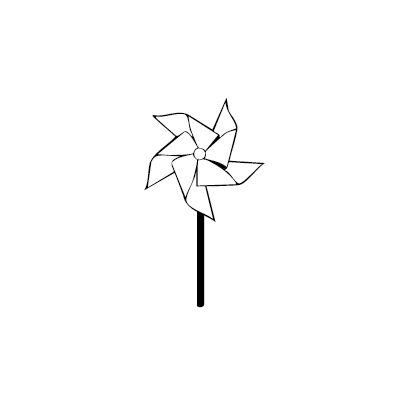
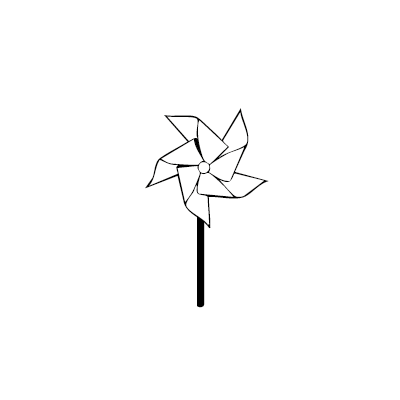
aggiornamento

Changed region(s): [[0.36, 0.24, 0.66, 0.57]]

diff --git a/Esercizio_1A/rotazione_3.html b/Esercizio_1A/rotazione_3.html
@@ -23,8 +23,8 @@
 
 		const sequenza = [
 			"img/rotazione_1.1.png",
+			"img/rotazione_2.png",
 			"img/rotazione_3.png",
-			"img/rotazione_2.2.png",
 		]
 
 		let frame = 0
